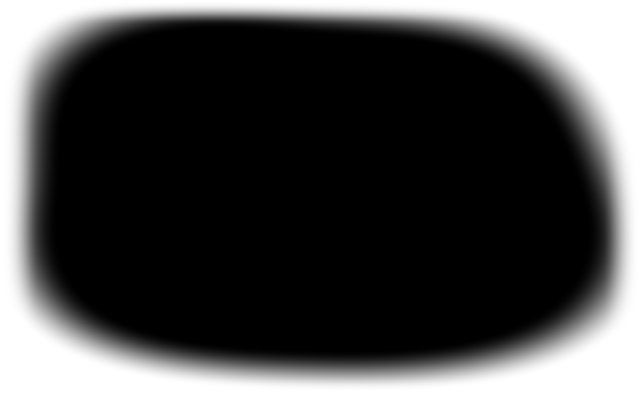
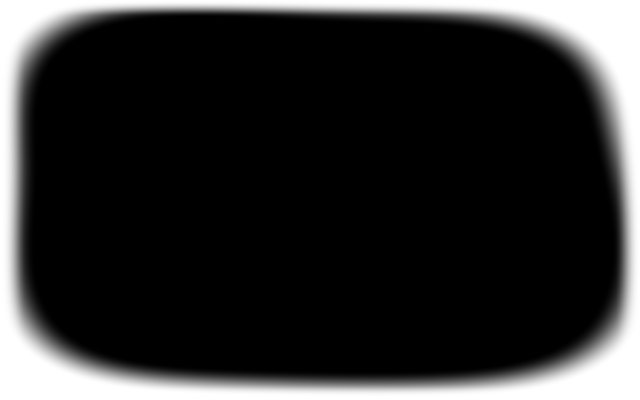
Updates post: dial video glow, fade and grain way down on all videos

Changed region(s): [[0.0, 0.0, 1.0, 0.99]]

diff --git a/updates/updates.css b/updates/updates.css
@@ -97,13 +97,13 @@ a { color: inherit; text-decoration-color: var(--accent); text-decoration-thickn
 .video-label.with-demo { color: var(--accent); }
 .video-label.with-demo::before { background: var(--accent); }
 .film-wrap { position: relative; }
-.film-glow { position: absolute; inset: -5%; background: center / 100% 100% no-repeat; filter: blur(36px) brightness(1.1); opacity: .3; pointer-events: none; }
+.film-glow { position: absolute; inset: -3%; background: center / 100% 100% no-repeat; filter: blur(28px); opacity: .14; pointer-events: none; }
 .film { position: relative; isolation: isolate;
   -webkit-mask: url("film-mask-a.png") center / 100% 100% no-repeat;
   mask: url("film-mask-a.png") center / 100% 100% no-repeat; }
 .film.film-alt { -webkit-mask-image: url("film-mask-b.png"); mask-image: url("film-mask-b.png"); }
 .film video { display: block; width: 100%; height: auto; }
-.film::after { content: ""; position: absolute; inset: 0; pointer-events: none; background: url("grain.png") repeat; background-size: 256px 256px; mix-blend-mode: overlay; opacity: .25; z-index: 2; }
+.film::after { content: ""; position: absolute; inset: 0; pointer-events: none; background: url("grain.png") repeat; background-size: 256px 256px; mix-blend-mode: overlay; opacity: .12; z-index: 2; }
 .film-caption { position: absolute; left: 50%; bottom: 17%; transform: translateX(-50%); z-index: 3; margin: 0; max-width: 84%; width: max-content;
   font: 600 clamp(12px, 1.6vw, 16px)/1.3 var(--display); color: #fff; text-align: center; text-wrap: balance;
   background: #14140fa6; padding: 6px 12px; border-radius: 8px; transition: opacity .18s; }
